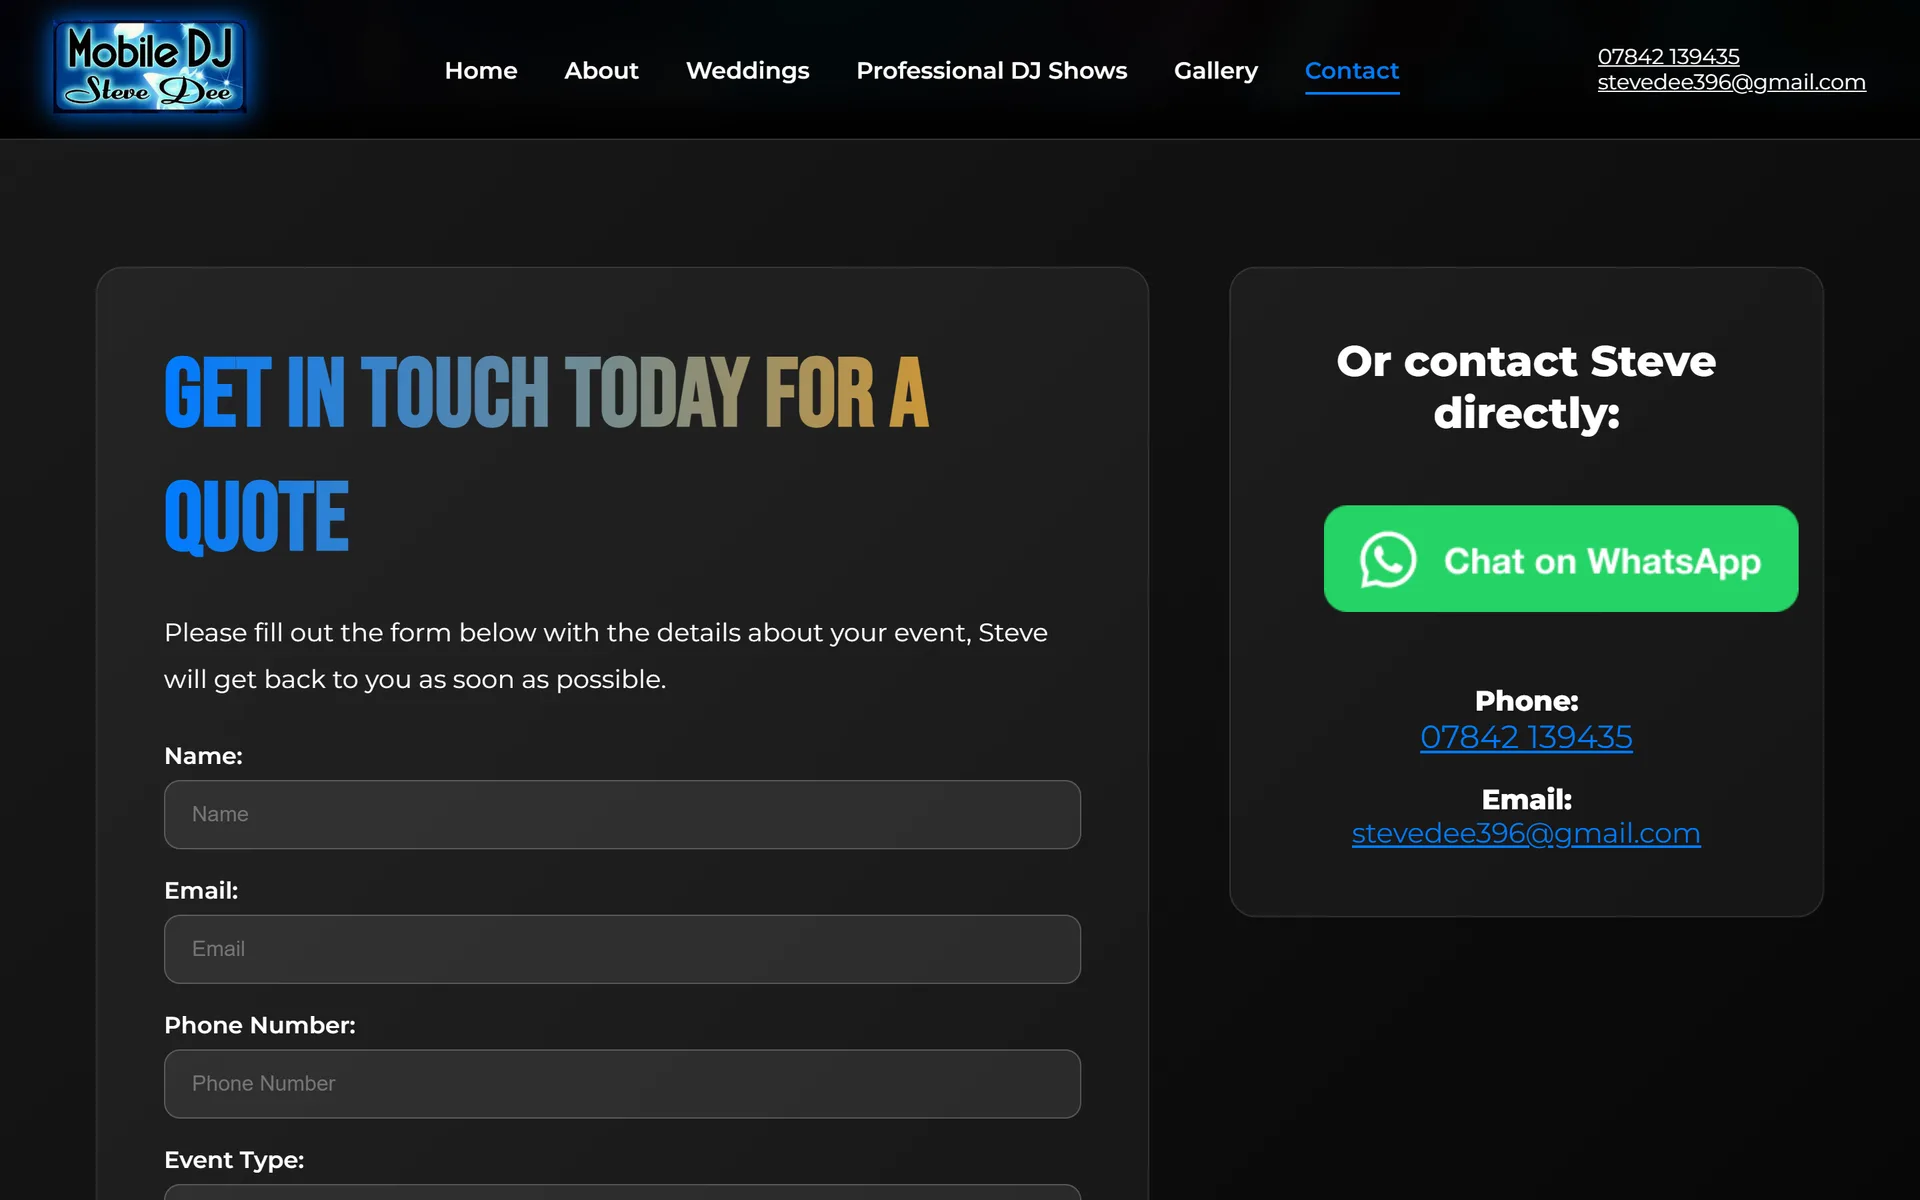
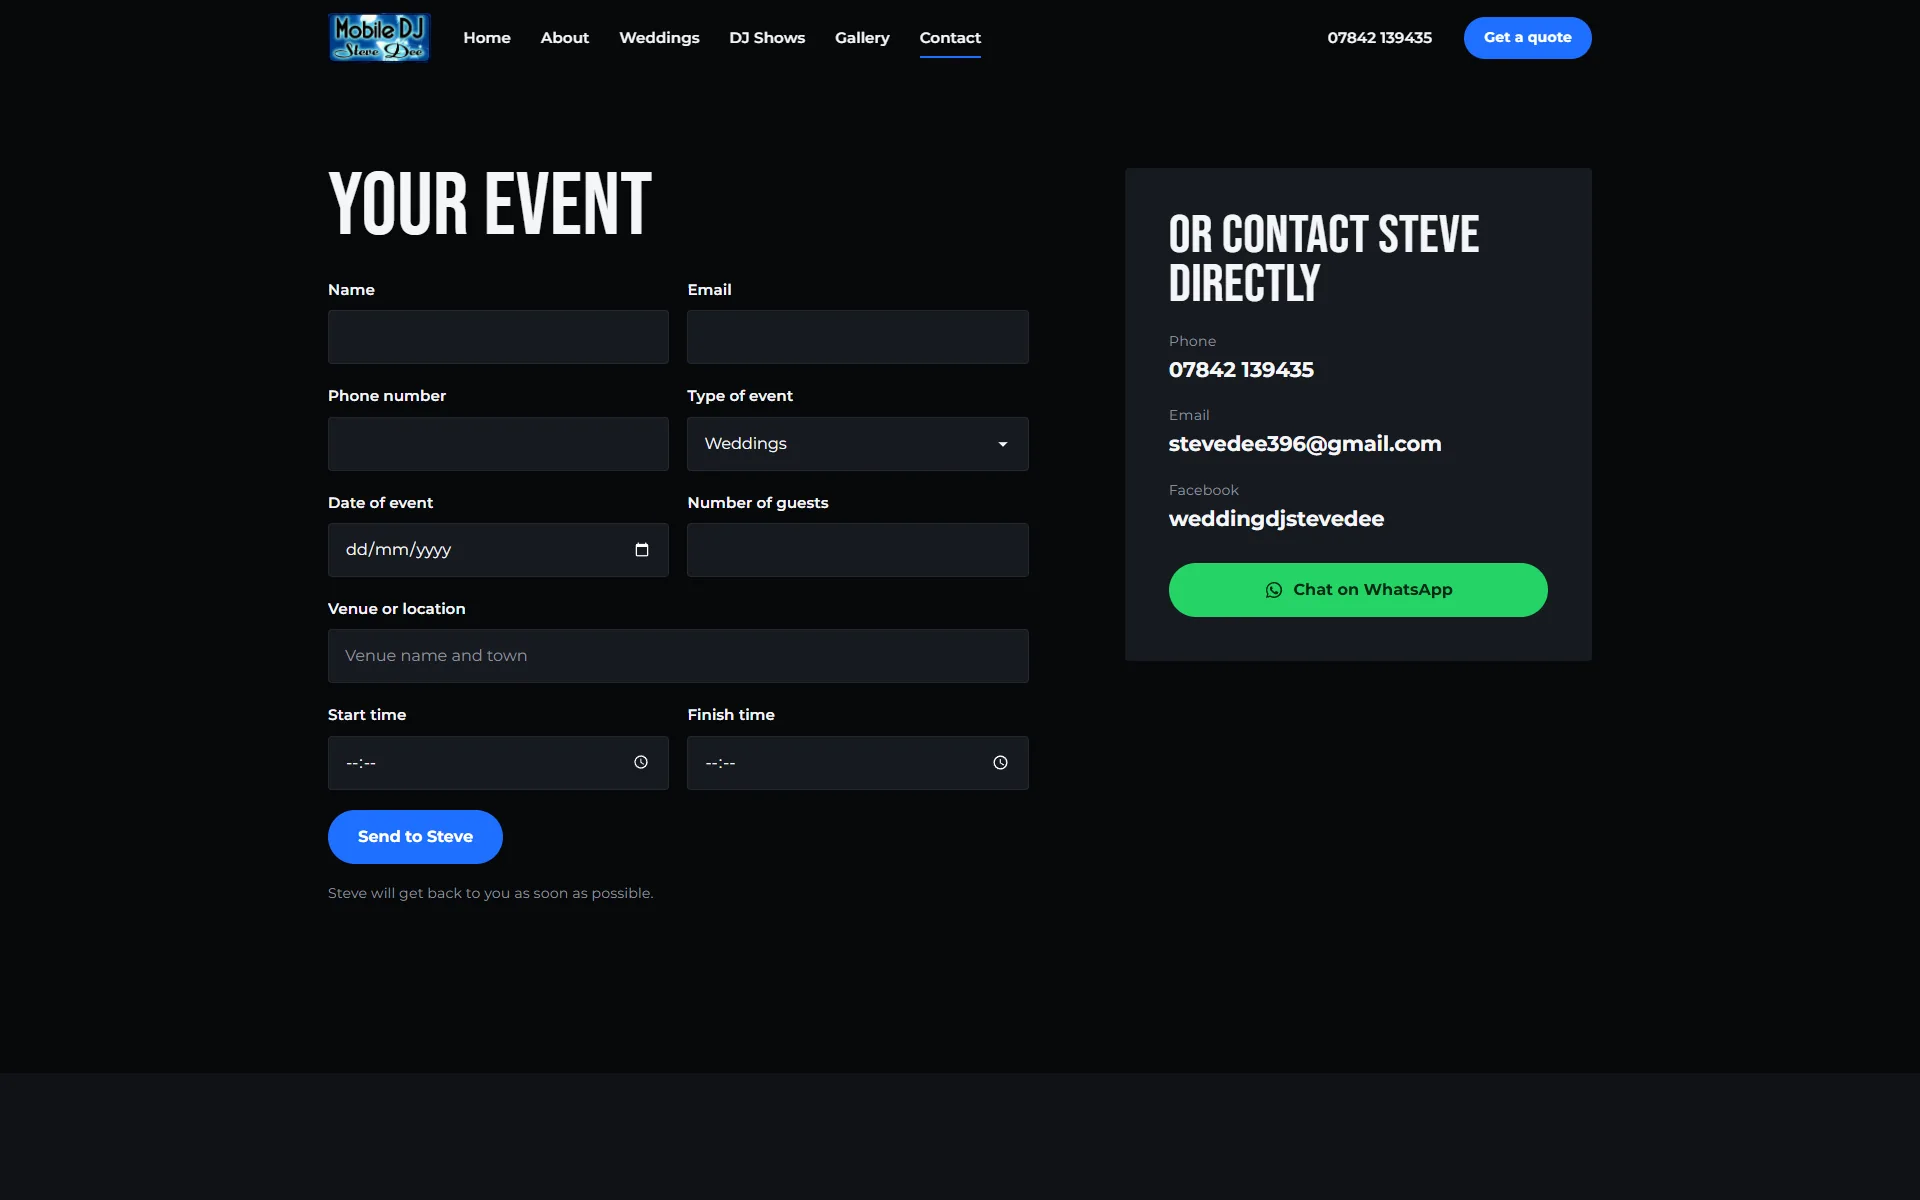
Updated DJ portfolio

diff --git a/lib/work.ts b/lib/work.ts
@@ -263,8 +263,8 @@ export const caseStudies: CaseStudy[] = [
     },
     built: [
       {
-        title: "The setup, front and centre",
-        copy: "The homepage opens on Steve's all-white rig and LED light show, so you can picture it at your event straight away.",
+        title: "A packed dance floor, front and centre",
+        copy: "The homepage opens on a packed dance floor at one of Steve's events, so you can picture your own night straight away.",
       },
       {
         title: "A page for weddings",
@@ -272,7 +272,7 @@ export const caseStudies: CaseStudy[] = [
       },
       {
         title: "A gallery of real nights",
-        copy: "Over 50 photos from recent events, in a slideshow people can flick through.",
+        copy: "Photos from recent events, sorted into weddings, parties and DJ setups. Tap any photo to see it full size.",
       },
       {
         title: "Quotes with the right details",
@@ -290,27 +290,27 @@ export const caseStudies: CaseStudy[] = [
     desktop: [
       {
         src: "/work/djstevedee/desktop-hero.webp",
-        alt: "DJ Steve Dee homepage with his DJ booth and LED lights behind the headline",
-        caption: "The homepage leads with Steve's setup and a big \"Hire me now\" button.",
+        alt: "DJ Steve Dee homepage with a packed marquee dance floor behind the headline",
+        caption: "The homepage opens on a packed dance floor and a big \"Get a free quote\" button.",
       },
       {
         src: "/work/djstevedee/desktop-gallery.webp",
-        alt: "DJ Steve Dee gallery titled \"Recent events that went off\" showing a marquee party",
-        caption: "A gallery of over 50 photos from real events.",
+        alt: "DJ Steve Dee gallery with filters for weddings, parties and DJ setups above a grid of event photos",
+        caption: "A gallery of photos from real events, sorted by type.",
       },
       {
         src: "/work/djstevedee/desktop-shows.webp",
-        alt: "DJ Steve Dee professional DJ show page with a photo of his lit-up setup in a marquee",
+        alt: "DJ Steve Dee \"The Pro DJ Show\" page with his lit-up DJ booth behind the headline",
         caption: "A page for the full professional DJ show.",
       },
       {
-        src: "/work/djstevedee/desktop-welcome.webp",
-        alt: "DJ Steve Dee welcome section with a client review and a \"Book DJ Steve Dee today\" banner",
-        caption: "Reviews and a clear call to book, all the way down the page.",
+        src: "/work/djstevedee/desktop-about.webp",
+        alt: "DJ Steve Dee homepage section \"A full dance floor, start to finish\" next to a photo of his all-white setup",
+        caption: "Steve's 25 years of experience, next to his all-white setup.",
       },
       {
         src: "/work/djstevedee/desktop-contact.webp",
-        alt: "DJ Steve Dee quote request form with a WhatsApp button and phone number",
+        alt: "DJ Steve Dee quote request form next to his phone, email and a WhatsApp button",
         caption: "A quote form that asks for everything Steve needs to give a price.",
       },
     ],
